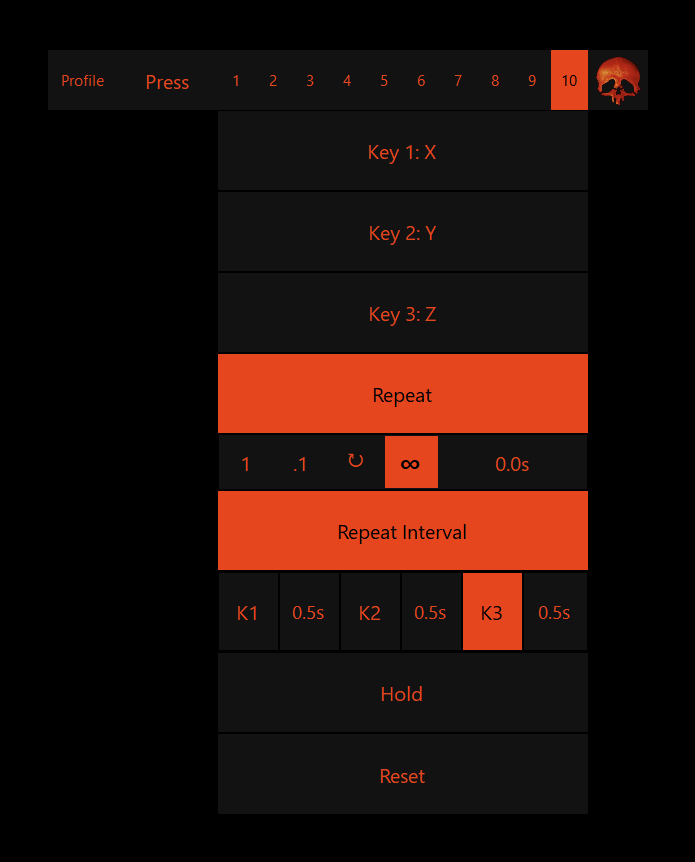
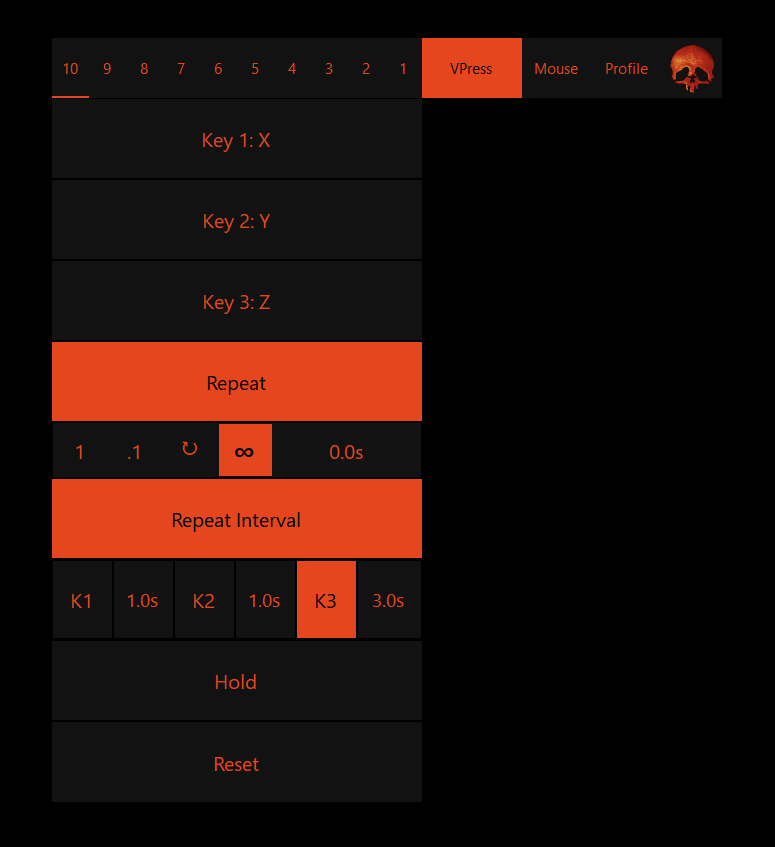
Update the README and manual for mouse-button remapping, and refresh the dashboard screenshots
VoicePress was still described as a voice-only tool that leans on
X-Mouse Button Control for mouse remapping - it's now a mouse-button-and-
voice remapper in one, so both docs (and the top-line GitHub description)
are rewritten around that. The manual also covers the per-source infinite
hold/repeat behavior: a voice word and a mouse button can each infinite-
hold (or -repeat) at once, and running two repeats together in practice
alternates roughly A, B, A, B between them rather than queuing.

Screenshots are swapped for the current dashboard - the old ones predate
this session's redesign (no Mouse tab, Profile on the left, solid-fill tab
selection instead of the underline).

diff --git a/README.md b/README.md
@@ -1,21 +1,18 @@
 # VoicePress
 
-A small Windows overlay that turns spoken commands into key presses, built for playing **The Isle: Evrima**.
+Remap mouse buttons and voice commands to keyboard keys, with full control over how each one gets pressed — a small Windows overlay built for playing **The Isle: Evrima**.
 
 ## Why this exists
 
-VoicePress was built as an accessibility tool, for Fizzil — who is disabled — to be able to play *The Isle: Evrima*. It is **not** intended as a way to play the game hands-free with voice alone. It's meant to be used alongside:
+VoicePress was built as an accessibility tool, for Fizzil — who is disabled — to be able to play *The Isle: Evrima*, using a normal mouse or a specialized **quad mouse** (a mouse with extra physical buttons). It is **not** intended as a way to play the game hands-free with voice alone.
 
-- A normal mouse, or a specialized **quad mouse** (a mouse with extra physical buttons), and
-- [X-Mouse Button Control](https://www.highrez.co.uk/downloads/XMouseButtonControl.htm), a free third-party tool that remaps otherwise-unused mouse buttons.
-
-VoicePress fills the remaining gap: a handful of game actions triggered by saying "press &lt;word&gt;," for moments a hand isn't free to reach a key.
+It's a mouse-button and voice remapper in one: six of a mouse's buttons (Right Click, Middle Click, Mouse 4/5, Wheel Up/Down — Left Click is deliberately left alone, so you always keep the ability to click) and up to ten spoken words each send a keyboard key, with full control over *how* — a single tap, held down, or repeated, for a fixed duration or until you say/press it again. Between the two, it covers game actions for moments a hand isn't free to reach a key.
 
 ## Screenshots
 
 <p float="left">
-  <img src="Assets/screenshots/VP-KeyMapping.png" width="45%" alt="A word card showing Key, Repeat, Hold, the timer row, and Reset" />
-  <img src="Assets/screenshots/VP-Profiles.png" width="45%" alt="The Profiles tab, showing Default and a custom 'the isle' profile" />
+  <img src="Assets/screenshots/VP-Mouse.png" width="45%" alt="Middle Click's card, showing Key 1: S, Repeat with Infinite on, Hold, and Reset" />
+  <img src="Assets/screenshots/VP-Profiles.png" width="45%" alt="The Profile tab, showing Default and a custom 'the isle' profile, with the VPress/Mouse/Profile row above it" />
 </p>
 <p float="left">
   <img src="Assets/screenshots/VP-MultiKey-RepeatInterval.png" width="45%" alt="A word card with a three-key combo, Repeat and Infinite on, and the Repeat Interval row with K1/K2/K3 timing" />
@@ -24,8 +21,9 @@ VoicePress fills the remaining gap: a handful of game actions triggered by sayin
 ## What it does
 
 - Say "press one" through "press ten" to send the matching key.
-- Right-click the skull icon for a small dashboard: remap which key each word sends, set it to tap, hold, or repeat, and manage multiple named profiles.
-- Add up to two more keys to a word for a combo, like Ctrl+C — tap and hold press them all together, and repeat cycles through them in sequence, with the timing between each adjustable.
+- Remap Right Click, Middle Click, Mouse 4/5, and Wheel Up/Down to send a key too — Left Click is left alone on purpose, so you can never lose the ability to click.
+- Remap which key each word or button sends, set it to tap, hold, or repeat, and manage multiple named profiles — right-click the skull icon for a small dashboard.
+- Add up to two more keys to a word or button for a combo, like Ctrl+C — tap and hold press them all together, and repeat cycles through them in sequence, with the timing between each adjustable.
 - Say "press stop" to release anything currently held down or repeating — a safety net for whenever a command can't be repeated in time.
 - Left-click (or drag) the skull icon to pause listening or move it around the screen.
 - Runs fully offline — speech recognition ([Vosk](https://alphacephei.com/vosk/)) happens entirely on your machine. Nothing is sent anywhere.

diff --git a/MANUAL.md b/MANUAL.md
@@ -8,18 +8,24 @@ Say "press" `one` through `ten`, or `stop`. Nothing else is recognized; speech r
 
 By default `one`–`nine` map to the number keys, and `ten` maps to `0`. Every word's key, and how it behaves, is remappable from the dashboard (right-click the skull icon).
 
+## Mouse button commands
+
+Right Click, Middle Click, Mouse 4, Mouse 5, Wheel Up, and Wheel Down can each be remapped to a keyboard key too, from the same dashboard. Left Click is never remappable — it's deliberately left alone so clicking always works, no matter what else is configured.
+
+A button starts unmapped (a normal click) until you assign it a key; once mapped, pressing it sends the key instead of the usual click.
+
 ## How a key can behave
 
-Each word can be set to:
+Each word or button can be set to:
 
 - **Tap** — a single key press (the default).
 - **Repeat** — taps the key repeatedly for a set duration.
 - **Hold** — holds the key down for a set duration.
-- **Infinite** — instead of a fixed duration, saying the word starts the hold/repeat, and saying it again stops it.
+- **Infinite** — instead of a fixed duration, saying the word (or pressing the button) starts the hold/repeat, and saying/pressing it again stops it.
 
-## Multiple keys per word
+## Multiple keys per word or button
 
-"Add Key," under a word's Key row, adds up to two more keys to it — enough for a three-key combo like Ctrl+Alt+Delete, or a short sequence of abilities.
+"Add Key," under a word's or button's Key row, adds up to two more keys to it — enough for a three-key combo like Ctrl+Alt+Delete, or a short sequence of abilities.
 
 - **Tap** and **Hold** press every key together, all at once.
 - **Repeat** instead cycles through them one at a time — Key 1, then Key 2, then Key 3, then back to Key 1 — using the normal fixed gap between each, unless "Repeat Interval" is turned on to set a custom gap for one or more of them.
@@ -28,13 +34,14 @@ Each word can be set to:
 
 Because Infinite holds/repeats can run indefinitely, VoicePress is built so a stuck key is never the only way out:
 
-- Only one word can be doing an infinite hold at a time, and separately only one can be doing an infinite repeat — starting a new one releases whichever word had that slot before.
-- Saying **"press stop"** releases everything currently held or repeating.
+- Voice words and mouse buttons each get their own independent set of slots: only one *word* can be doing an infinite hold at a time, and separately only one *button* can — starting a new one only bumps whichever word/button of the same kind (voice or mouse) had that slot before, never the other kind. The same split applies to infinite repeat. In practice, this means a voice word and a mouse button can each be infinite-holding (or each infinite-repeating) at the same time — one of each, not two of the same source.
+- Running an infinite-repeat word and an infinite-repeat button at once doesn't queue or block either one — they're two independent loops, each tapping its own key on its own timer. If the word repeats key **A** and the button repeats key **B**, the result in practice reads as roughly `A, B, A, B, A, B...`, since both are firing at close to the same rate rather than one waiting for the other.
+- Saying **"press stop"** releases everything currently held or repeating, from both sources at once.
 - Pausing listening, closing VoicePress, or switching away from the game window (alt-tab, or switching browser tabs) all release everything automatically too.
 
 ## Profiles
 
-Each profile has its own full set of key mappings — useful for different games, or different setups. Switching profiles swaps all ten words over at once.
+Each profile has its own full set of key mappings — both the ten words and the six mouse buttons — useful for different games, or different setups. Switching profiles swaps everything over at once. Up to 10 profiles total.
 
 ## Saved data
 
